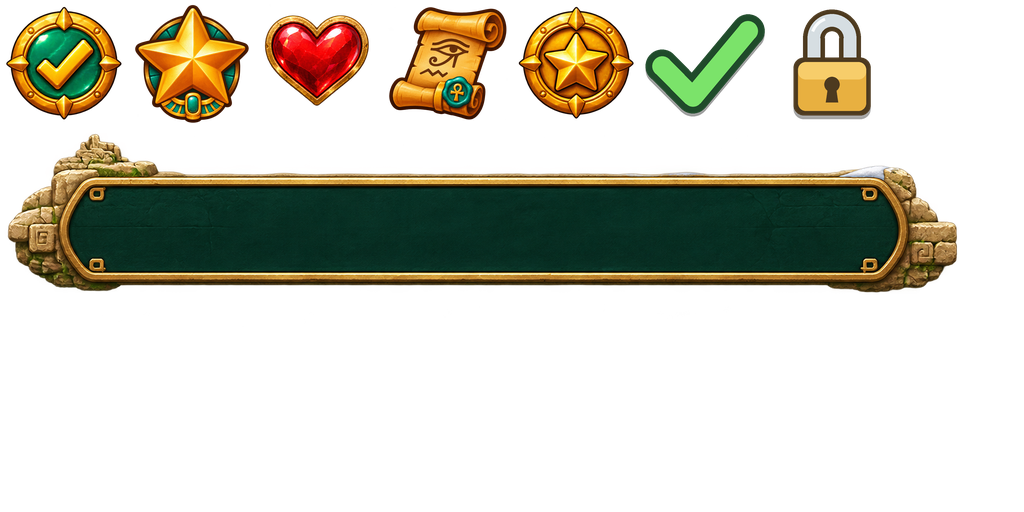
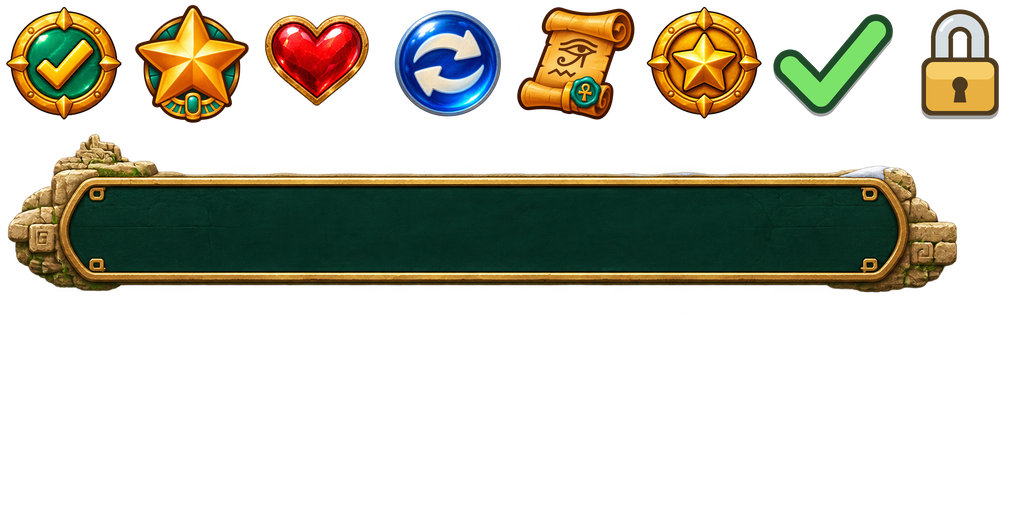
Use the blue glass Moves capsule on Relic Rush expeditions

Changed region(s): [[0.375, 0.0, 1.0, 0.25]]

diff --git a/games/relic-rush/tools/check_art_catalogue.py b/games/relic-rush/tools/check_art_catalogue.py
@@ -125,7 +125,7 @@ for pack in manifest["packs"]:
     for kind in range(len(kinds)):
         assert (ROOT / f"art/registered/tile-sets/{pack}/{kind}.png").is_file()
 hud = json.loads((ROOT / manifest["expedition_hud"]).read_text())
-assert set(hud["icons"]) == {"pause-" + state for state in manifest["tool_states"]} | {"score", "complete", "life"}
+assert set(hud["icons"]) == {"pause-" + state for state in manifest["tool_states"]} | {"score", "complete", "life", "moves"}
 for asset in [hud["controls"], hud["retired_portrait"]]:
     assert (ROOT / asset["source"]).is_file() and (ROOT / asset["prompt"]).is_file()
 for name, asset in hud["icons"].items():
@@ -161,7 +161,7 @@ assert str(count) in doc and 'building-catalogue.md' in doc
 assert set(manifest['island_layers']) == {'cloud-fog', 'building-shadows', 'placement-guides'}
 for name in manifest['island_layers']:
     assert '"'+name+'"' in art and '`'+name+'`' in doc
-print(f"Relic Rush catalogue: {len(actual)} runtime files, {len(slots)} campaign pieces, 26 board states, 7 HUD icons, {count} buildings covered")
+print(f"Relic Rush catalogue: {len(actual)} runtime files, {len(slots)} campaign pieces, 26 board states, {len(hud['icons'])} HUD icons, {count} buildings covered")
 
 # Compare actual piece silhouettes with the renderer-authored cell. The sun
 # face remains upright: geometry is authored, not a runtime sprite rotation.

diff --git a/games/relic-rush/tools/prepare_hud.py b/games/relic-rush/tools/prepare_hud.py
@@ -19,7 +19,8 @@ exports = {}
 for name, asset in ({} if args.navigation_only else manifest["icons"]).items():
     sheet=Image.open(ROOT/asset["source"]).convert("RGBA") if "source" in asset else source
     image = sheet.crop(asset["box"])
-    image.thumbnail((120, 120), Image.Resampling.LANCZOS)
+    side = asset.get("max_size", 120)
+    image.thumbnail((side, side), Image.Resampling.LANCZOS)
     canvas = Image.new("RGBA", (128, 128))
     canvas.alpha_composite(image, ((128 - image.width) // 2, (128 - image.height) // 2))
     exports[asset["runtime"]] = canvas

diff --git a/games/relic-rush/docs/asset-catalogue.md b/games/relic-rush/docs/asset-catalogue.md
@@ -487,8 +487,20 @@ buttons without captions; choosing one names it and its effect in the toast.
 ## Expedition header
 
 The campaign board centers its display-only row of Moves, Coins, Supplies
-and Food. Pause sits at the right end of the booster row. The Moves medallion
-shows its low-move state when needed.
+and Food. Pause sits at the right end of the booster row. The Moves capsule uses
+variant 2 from the [concept atlas](review/moves-capsule/variants-atlas.png).
+The `moves` frame in `data/board/hud.png` is a blue glass badge with two curved
+arrows. Its crop and 128 × 128 registration are recorded in the
+[HUD manifest](../art/expedition-hud/manifest.json). The display-only capsule
+uses the green wallet fill above five moves and the red fill at five or fewer
+until the board is won. The badge retains its authored pixels in both states.
+Run `python3 games/relic-rush/tools/prepare_hud.py` and
+`python3 tools/match3_atlas.py` to rebuild.
+The before-and-after comparisons show the
+[480 × 900 HUD](review/moves-capsule/live-480.jpg),
+[390 × 844 HUD](review/moves-capsule/live-390.jpg), and
+[three moves remaining](review/moves-capsule/live-low.jpg). These use the
+`shot floating-hud`, `shot phone-floating-hud`, and `shot low-moves` cases.
 Resource counts include pending earnings, and matched pieces land on their
 currency icons. [Current board](screenshots/bonus-toolbar-phone.jpg)
 
@@ -965,7 +977,7 @@ first wallet-style capsule. ImageGen painted the [static icon](review/moves-caps
 using the [wallet coin](../art/registered/resource-pieces/coin.png) as its reference.
 Two recessed clockwise arrows replace the stamped sun on the warm gold face.
 The transparent sprite is registered at the same 128 × 128 px as the wallet coin. The [header comparison](review/moves-capsule/comparison.jpg)
-shows the shipped hex counter above the concept. To render this preview from
+shows the original hex counter above the concept. To render this preview from
 the repository root:
 
 ```sh

diff --git a/games/relic-rush/README.md b/games/relic-rush/README.md
@@ -106,9 +106,9 @@ Clear every blue plaque to finish the expedition. The opening chapter’s dialog
 ## Shared UI and dialog layers
 
 The island and the board share one wallet and Settings bar. The green resource
-capsules have the same brass rim and drop shadow as the round buttons. The board shows
-Moves at the left of the resource balances. The medallion turns red at five
-moves. Blue tablets mark the board objective. Winning banks the resources
+capsules have the same brass rim and drop shadow as the round buttons. On the
+board, the Moves capsule leads the row with two circular arrows on blue glass.
+Its fill turns red at five moves. Blue tablets mark the board objective. Winning banks the resources
 earned in the three slots.
 Four large circular bonus sockets sit in one row below the centered board from the first
 expedition. Settings opens the Explorer's Guide,

diff --git a/docs/TOWN.md b/docs/TOWN.md
@@ -24,7 +24,8 @@ R.town:frame(inp, dt, R.overlay == R.OV_NONE)   -- once per frame
 - Placement: `view:begin(kind, focus, item)` lifts a new or placed building.
   Cancel and Confirm stand under it, and nothing is charged until Confirm
   (`hooks.can_buy`, `hooks.placed`).
-- The header: wallet capsules (`hooks.capsules`, left- or right-aligned) and
+- The header: wallet capsules (`hooks.capsules`, each with an optional skin
+  role, left- or right-aligned) and
   the menu button (`hooks.menu`) in the top-right corner.
 - The bottom row: the Build badge (`navigation_build`), the Play badge
   (`navigation_play`) and a middle control between them. That is a round
